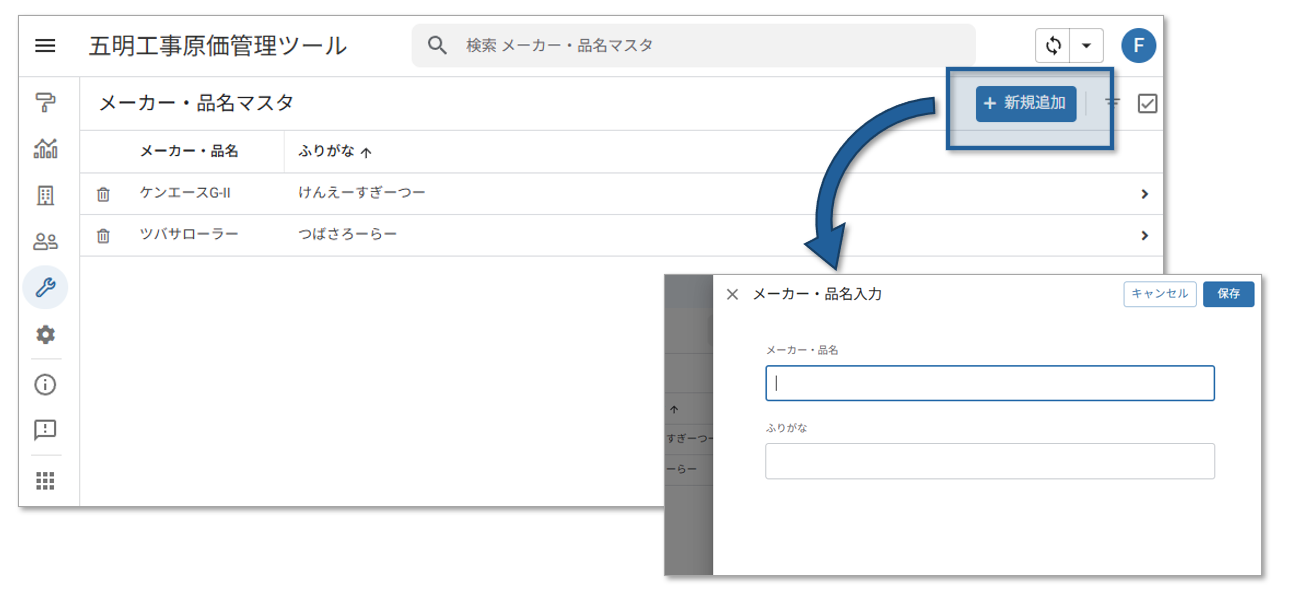
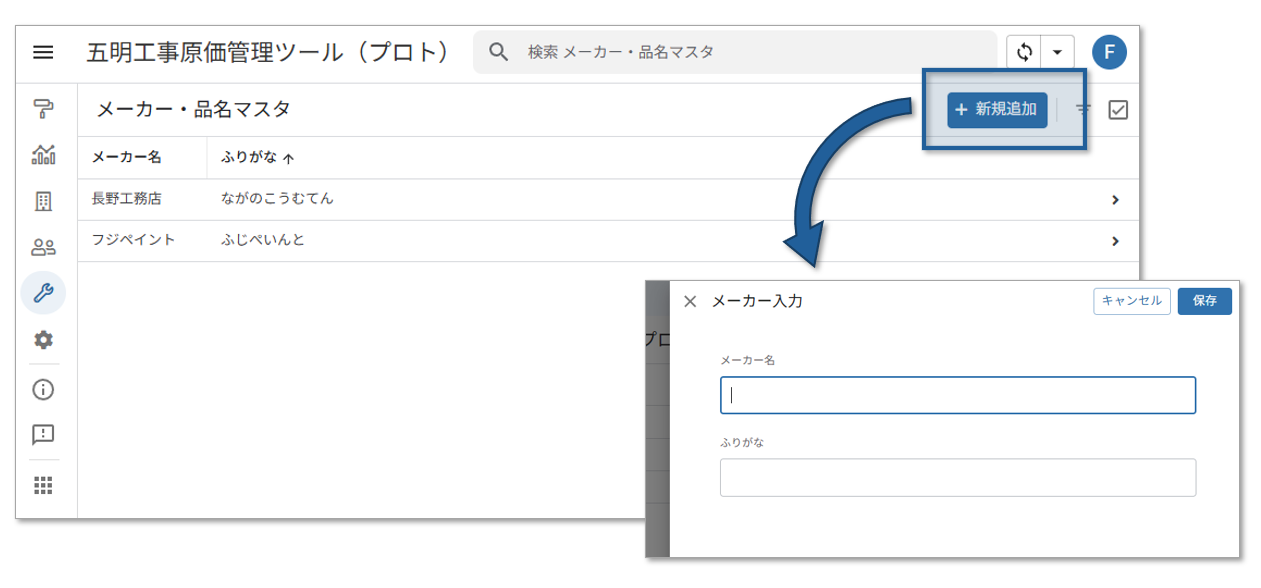
Review Feedback

Changed region(s): [[0.0, 0.0, 0.9897, 0.9796]]

diff --git a/docs/searchindex.js b/docs/searchindex.js
@@ -1,1 +1,1 @@
-Search.setIndex({"alltitles":{"1. \u4e8b\u524d\u6e96\u5099":[[0,null]],"1.1. \u767a\u6ce8\u8005\u30de\u30b9\u30bf":[[1,null]],"1.2. \u793e\u54e1\u30de\u30b9\u30bf":[[2,null]],"1.3. \u30e1\u30fc\u30ab\u30fc\u30fb\u54c1\u540d\u30de\u30b9\u30bf":[[3,null]],"2. \u5de5\u4e8b\u767b\u9332":[[4,null]],"2.1. \u57fa\u672c\u60c5\u5831\u767b\u9332":[[5,null]],"2.2. \u5951\u7d04\u5185\u5bb9\u5165\u529b":[[6,null]],"3. \u539f\u4fa1\u5165\u529b":[[7,null]],"3.1. \u6750\u6599\u30fb\u5916\u6ce8\u8cbb\u30fb\u8af8\u7d4c\u8cbb":[[8,null]],"3.2. \u52b4\u52d9\u8cbb":[[9,null]],"3.3. \u8af8\u7d4c\u8cbb\u30fb\u7ba1\u7406\u8cbb":[[10,null]],"4. \u8acb\u6c42\u30fb\u5165\u91d1":[[11,null]],"4.1. \u8acb\u6c42\u51e6\u7406":[[12,null]],"4.2. \u5165\u91d1\u51e6\u7406":[[13,null]],"5. \u96c6\u8a08\u30fb\u5206\u6790":[[14,null]],"5.1. \u767a\u6ce8\u8005\u5225\u5de5\u4e8b\u96c6\u8a08":[[15,null]],"5.2. \u5de5\u4e8b\u53f0\u5e33\u51fa\u529b":[[16,null]],"5.3. \u767a\u6ce8\u8005\u5225\u5de5\u4e8b\u96c6\u8a08\u51fa\u529b":[[17,null]],"\u4e94\u660e\u539f\u4fa1\u7ba1\u7406\u30c4\u30fc\u30eb \uff0d \u64cd\u4f5c\u30de\u30cb\u30e5\u30a2\u30eb":[[18,null]],"\u5165\u91d1\u60c5\u5831\u306e\u767b\u9332":[[13,"id1"]],"\u5229\u7528\u306e\u6d41\u308c":[[18,"id2"]],"\u52b4\u52d9\u8cbb\u306e\u524a\u9664":[[9,"id3"]],"\u52b4\u52d9\u8cbb\u306e\u767b\u9332":[[9,"id1"]],"\u52b4\u52d9\u8cbb\u306e\u7de8\u96c6":[[9,"id2"]],"\u5951\u7d04\u5185\u5bb9\u306e\u524a\u9664":[[6,"id3"]],"\u5951\u7d04\u5185\u5bb9\u306e\u767b\u9332":[[6,"id1"]],"\u5951\u7d04\u5185\u5bb9\u306e\u7de8\u96c6":[[6,"id2"]],"\u5de5\u4e8b\u306e\u524a\u9664":[[5,"id4"]],"\u5de5\u4e8b\u306e\u767b\u9332":[[5,"id2"]],"\u5de5\u4e8b\u306e\u7de8\u96c6":[[5,"id3"]],"\u5e33\u7968\u306e\u51fa\u529b":[[16,"id1"],[17,"id1"]],"\u64cd\u4f5c\u8aac\u660e":[[18,"id3"]],"\u6750\u6599\u30fb\u5916\u6ce8\u8cbb\u30fb\u8af8\u7d4c\u8cbb\u306e\u524a\u9664":[[8,"id3"]],"\u6750\u6599\u30fb\u5916\u6ce8\u8cbb\u30fb\u8af8\u7d4c\u8cbb\u306e\u767b\u9332":[[8,"id1"]],"\u6750\u6599\u30fb\u5916\u6ce8\u8cbb\u30fb\u8af8\u7d4c\u8cbb\u306e\u7de8\u96c6":[[8,"id2"]],"\u6982\u8981":[[18,"id1"]],"\u767a\u6ce8\u8005\u306e\u524a\u9664":[[1,"id4"]],"\u767a\u6ce8\u8005\u306e\u767b\u9332":[[1,"id2"]],"\u767a\u6ce8\u8005\u306e\u7de8\u96c6":[[1,"id3"]],"\u793e\u54e1\u306e\u524a\u9664":[[2,"id4"],[3,"id4"]],"\u793e\u54e1\u306e\u767b\u9332":[[2,"id2"],[3,"id2"]],"\u793e\u54e1\u306e\u7de8\u96c6":[[2,"id3"],[3,"id3"]],"\u8acb\u6c42\u60c5\u5831\u306e\u524a\u9664":[[12,"id3"],[13,"id3"]],"\u8acb\u6c42\u60c5\u5831\u306e\u767b\u9332":[[12,"id1"]],"\u8acb\u6c42\u60c5\u5831\u306e\u7de8\u96c6":[[12,"id2"],[13,"id2"]],"\u8af8\u7d4c\u8cbb\u306e\u524a\u9664":[[10,"id3"]],"\u8af8\u7d4c\u8cbb\u306e\u767b\u9332":[[10,"id1"]],"\u8af8\u7d4c\u8cbb\u306e\u7de8\u96c6":[[10,"id2"]],"\u8d77\u52d5":[[1,"id1"],[2,"id1"],[3,"id1"],[5,"id1"],[15,"id1"]],"\u96c6\u8a08\u671f\u9593\u306e\u6307\u5b9a":[[15,"id2"]]},"docnames":["P100","P101","P102","P103","P200","P201","P202","P300","P301","P302","P303","P400","P401","P402","P500","P501","P502","P503","index"],"envversion":{"sphinx":66,"sphinx.domains.c":3,"sphinx.domains.changeset":1,"sphinx.domains.citation":1,"sphinx.domains.cpp":9,"sphinx.domains.index":1,"sphinx.domains.javascript":3,"sphinx.domains.math":2,"sphinx.domains.python":4,"sphinx.domains.rst":2,"sphinx.domains.std":2},"filenames":["P100.rst","P101.rst","P102.rst","P103.rst","P200.rst","P201.rst","P202.rst","P300.rst","P301.rst","P302.rst","P303.rst","P400.rst","P401.rst","P402.rst","P500.rst","P501.rst","P502.rst","P503.rst","index.rst"],"indexentries":{},"objects":{},"objnames":{},"objtypes":{},"terms":{"\u3001\u300c":[1,2,3,5,6,8,9,10,12,13,15,16,17],"\u3001\u6708":18,"\u3001\u6708\u6b21":15,"\u300c\u30b4\u30df":[1,2,3],"\u3042\u3089\u304b\u3058\u3081":[0,2,3,18],"\u3042\u308a":[1,9],"\u3042\u308b":[1,2,3,5,6],"\u3044\u308b":[1,2,3,6,8,9,10,12,13],"\u304a\u304f":[2,3],"\u304a\u3051\u308b":[4,17,18],"\u304a\u3088\u3073":[3,6,9,11,12,13,18],"\u304a\u308a":[5,18],"\u304b\u3089":[1,2,3,5,8,9,15,16,17],"\u304f\u3060":[1,2,3,5,6,8,9,10,12,13,15,16,17],"\u3053\u3068":[2,3,8,9,10,14,15,16,18],"\u3053\u308c":[7,18],"\u3053\u308c\u3089":[8,9,10,12,13,18],"\u3054\u3068":[4,6,7,8,15,17,18],"\u3055\u3044":[1,2,3,5,6,8,9,10,12,13,15,16,17],"\u3059\u3067":1,"\u3059\u308b":[1,2,3,4,5,6,8,9,10,12,13,14,15,16,17,18],"\u305f\u3081":[0,4,18],"\u3060\u3055\u3044":[1,5],"\u3065\u304b":10,"\u3067\u304d":[3,5,7,8,9,10,14,15,16,17,18],"\u3067\u304d\u308b":3,"\u3067\u3054":5,"\u3067\u3059":[3,4,5,8,9,15,16,17,18],"\u3067\u3082":[7,18],"\u3068\u3057\u3066":[5,8,9,10,12,13,14,16,17,18],"\u306a\u3044":[8,9,10],"\u306a\u304a":1,"\u306a\u3069":[0,5,6,7,8,9,10,12,13,15,16,17,18],"\u306a\u308a":[2,6,9],"\u306a\u308b":[1,5,15],"\u306b\u3064\u3044\u3066":18,"\u306b\u3088\u308a":[7,15,16,17,18],"\u306e\u3067":[1,2,3,5,6,8,9,10,12,13],"\u307e\u3059":[0,1,2,3,4,5,6,7,8,9,10,11,12,13,14,15,16,17,18],"\u307e\u305b":5,"\u307e\u305f":18,"\u307e\u3068\u3081\u3066":16,"\u3082\u306e":18,"\u308c\u308b":[1,2,3,16,17],"\u30a2\u30a4\u30b3\u30f3":[1,2,3,5,6,8,9,10,12,13,15],"\u30a8\u30ea\u30a2":[6,8,9,10,12,13],"\u30af\u30ea\u30c3\u30af":[1,2,3,5,6,8,9,10,12,13,15,16,17],"\u30b4\u30df":[6,8,9,10,12,13],"\u30b7\u30b9\u30c6\u30e0":18,"\u30c0\u30a4\u30a2\u30ed\u30b0":[1,2,3,5,6,8,9,10,12,13],"\u30c0\u30d6\u30eb\u30af\u30ea\u30c3\u30af":[16,17],"\u30c4\u30fc\u30eb":[0,1,2,3,4,5,6,7,8,9,10,11,12,13,14,15,16,17],"\u30c7\u30fc\u30bf":[1,2,3,5,6,8,9,10,12,13,14,18],"\u30d5\u30a9\u30fc\u30e0":[1,2,3,5,6,8,9,10,12,13],"\u30dc\u30bf\u30f3":[1,2,3,5,6,8,9,10,12,13,15,16,17],"\u30de\u30b9\u30bf":[0,8,9,18],"\u30de\u30cb\u30e5\u30a2\u30eb":[0,1,2,3,4,5,6,7,8,9,10,11,12,13,14,15,16,17],"\u30e1\u30fc\u30ab\u30fc":[8,18],"\u30fb\u56db\u534a\u671f":15,"\u30fb\u5916\u6ce8\u8cbb":18,"\u30fb\u7ba1\u7406\u8cbb":18,"\u30fb\u8af8":18,"\u4e00\u5143":18,"\u4e00\u89a7":[1,2,3,5,16,17],"\u4e0a\u90e8":[6,8,9,10,12,13,16,17],"\u4e8b\u4e00\u89a7":15,"\u4e8b\u4e00\u89a7\u8a73\u7d30":17,"\u4e8b\u524d":[8,9,18],"\u4e8b\u96c6":18,"\u4e8b\u9805":[1,2,3,5],"\u4e94\u660e\u539f\u4fa1":[0,1,2,3,4,5,6,7,8,9,10,11,12,13,14,15,16,17],"\u4ee5\u4e0b":18,"\u4efb\u610f":15,"\u4f01\u696d":1,"\u4f5c\u6210":[4,18],"\u4f5c\u696d":9,"\u4f7f\u7528":[1,2,5,6,12,13],"\u4fa1\u683c":17,"\u4fdd\u5b58":[1,2,3,5,6,8,9,10,12,13,15],"\u4fdd\u5b58\u5f8c":15,"\u4fee\u6b63":[1,2,3,5,6,8,9,10,12,13],"\u500b\u5225":16,"\u5148\u5225":[15,17],"\u5148\u982d":[1,2,3,6,8,9,10,12,13],"\u5165\u529b":[0,1,2,3,5,8,9,10,12,13,18],"\u5165\u91d1":[4,5,6,16,18],"\u5171\u901a":10,"\u5185\u5bb9":[1,2,3,4,5,8,9,10,12,13,16,17,18],"\u518d\u8868":15,"\u51e6\u7406":18,"\u51fa\u529b":[5,18],"\u51fa\u767a":5,"\u5206\u6790":[15,18],"\u5224\u65ad":[14,15,17,18],"\u5225\u5de5":18,"\u5225\u96c6":18,"\u5229\u76ca":[7,15,17,18],"\u529b\u6642":[2,3],"\u52b4\u52d9":[2,9],"\u52b4\u52d9\u8cbb":[7,10,18],"\u52b9\u7387":[0,2,3,18],"\u5358\u4f4d":[4,5,10,15,16,18],"\u5358\u4fa1":[8,9],"\u5373\u3057":9,"\u539f\u4fa1":[0,1,4,5,6,8,9,10,15,16,17,18],"\u53c2\u7167":[16,17],"\u53cd\u6620":[8,9,10],"\u53ce\u652f":[16,18],"\u53ce\u76ca":[5,10,14,15,17,18],"\u53d6\u5f15":[15,17],"\u53d7\u6ce8":[1,15,17],"\u53ef\u80fd":[1,2,3,8,9,16],"\u53ef\u8996":[11,15,18],"\u53f0\u5e33":[4,18],"\u53f3\u4e0a":[1,2,3,5],"\u5404\u5de5":[5,18],"\u5408\u8a08":[6,9,10,12,13,17],"\u5411\u4e0a":18,"\u542b\u3081":10,"\u54c1\u540d":[8,18],"\u54c1\u76ee":[0,3,18],"\u56de\u53ce":[11,18],"\u56f3\u308b":[0,18],"\u57fa\u3065\u3044":15,"\u57fa\u672c":[4,18],"\u57fa\u6e96":6,"\u57fa\u790e":[0,5,18],"\u5831\u544a":16,"\u5834\u5408":[6,8,9],"\u5834\u6240":5,"\u58f2\u4e0a":[1,11,12,15,16,17,18],"\u5916\u6ce8":[7,18],"\u5951\u7d04":[4,5,12,15,16,18],"\u5b8c\u4e86":[16,17],"\u5b9a\u91cf":16,"\u5b9f\u614b":9,"\u5b9f\u884c":[7,8,18],"\u5bfe\u5fdc":18,"\u5bfe\u8c61":15,"\u5de5\u4e8b":[1,2,6,7,8,9,10,12,13,14,15,18],"\u5de5\u4e8b\u540d":5,"\u5de5\u671f":5,"\u5de6\u30e1\u30cb\u30e5\u30fc":[1,2,3,5,15],"\u5e33\u7968":[5,18],"\u5e74\u5ea6":15,"\u5f53\u8a72":5,"\u5f62\u5f0f":[16,17],"\u5f71\u97ff":1,"\u5f93\u4e8b":2,"\u5fa9\u5143":5,"\u5fc5\u8981":[1,2,3,5],"\u60c5\u5831":[0,1,2,3,4,6,8,9,10,11,16,18],"\u6226\u7565":17,"\u628a\u63e1":[7,10,12,14,15,16,17,18],"\u6307\u5b9a":17,"\u63a1\u7b97":16,"\u640d\u76ca":[1,6,8,9,10,15,16,17,18],"\u64cd\u4f5c":[0,1,2,3,4,5,6,7,8,9,10,11,12,13,14,15,16,17],"\u652f\u6255":8,"\u652f\u63f4":18,"\u6570\u91cf":8,"\u6574\u7406":[16,17],"\u65b0\u898f":[1,2,3,5],"\u65b9\u6cd5":18,"\u65b9\u91dd":[15,17],"\u65e5\u6570":9,"\u660e\u7d30":6,"\u6642\u7d66":9,"\u6700\u5f8c":[14,18],"\u6700\u7d42":10,"\u671f\u9593":17,"\u672a\u53ce":[11,13,18],"\u672a\u8acb":12,"\u672c\u30c4\u30fc\u30eb":18,"\u672c\u60c5\u5831":6,"\u672c\u66f8":18,"\u672c\u6a5f\u80fd":[15,16,17],"\u6750\u6599":[3,18],"\u6750\u6599\u8cbb":[7,8,18],"\u6848\u4ef6":[4,18],"\u691c\u8a0e":17,"\u69cb\u6210":9,"\u69cb\u9020":[14,15,18],"\u6a5f\u80fd":[15,16,17],"\u6b21\u7ba1":18,"\u6b63\u78ba":[0,2,9,18],"\u6b6f\u8eca":15,"\u6b8b\u9ad8":13,"\u6bd4\u7387":10,"\u6bd4\u8f03":[6,12],"\u6c0f\u540d":9,"\u6c42\u6b8b":12,"\u6ce8\u610f\u304f":[1,5],"\u6d3b\u7528":[14,15,16,17,18],"\u6e08\u307f":[1,2,3,5],"\u6e96\u5099":18,"\u72b6\u6cc1":[7,10,11,15,16,17,18],"\u73fe\u5834":8,"\u751f\u6210":[16,17],"\u753b\u9762":[1,2,3,5,6,8,9,10,12,13,15,16,17],"\u767a\u6ce8":[0,5,14,18],"\u767a\u751f":8,"\u767b\u9332":[0,11,18],"\u76f4\u63a5":[3,8,9,10],"\u78ba\u8a8d":[1,2,3,5,6,7,8,9,10,12,13,16,17,18],"\u793e\u5185":16,"\u793e\u54e1":[0,9,10,18],"\u793e\u5916":[9,10],"\u7a2e\u5225":8,"\u7ba1\u7406":[0,1,2,3,4,5,6,7,8,9,10,11,12,13,14,15,16,17],"\u7cbe\u5ea6":18,"\u7d10\u3065\u3051":[4,18],"\u7d4c\u55b6":[14,15,17,18],"\u7d4c\u8cbb":[7,10,18],"\u7d50\u679c":[15,17],"\u81ea\u52d5":[8,9,10,18],"\u84c4\u7a4d":[14,18],"\u8868\u793a":[1,2,3,5,6,8,9,10,12,13,15,16,17],"\u8907\u6570":6,"\u8981\u7d20":9,"\u898b\u76f4\u3057":15,"\u898b\u8fbc\u307f":[7,18],"\u8a08\u4e0a":[11,18],"\u8a08\u51fa":18,"\u8a08\u7b97":[0,6,8,9,10,18],"\u8a08\u8868":18,"\u8a2d\u5b9a":15,"\u8a73\u7d30":[5,6,8,9,10,12,13,16],"\u8acb\u6c42":[4,5,16,18],"\u8acb\u8ca0":[6,10,18],"\u8af8\u7d4c":8,"\u8af8\u7d4c\u8cbb":18,"\u8ca2\u732e":17,"\u8cbb\u5165":[2,3,9],"\u8cbb\u7528":10,"\u8cbb\u7528\u540d":10,"\u8cbb\u7b49":[8,10],"\u8cbb\u96c6":2,"\u8cc7\u6599":[14,16,18],"\u8cc7\u91d1":[11,18],"\u9032\u884c":[7,18],"\u904b\u7528":18,"\u9078\u629e":[1,2,3,8,9],"\u91cd\u8981":9,"\u91d1\u984d":[6,8,9,12,13,18],"\u958b\u304d":[1,2,3,5,6,8,9,10,12,13],"\u958b\u304f":[1,2,3],"\u95a2\u9023":1,"\u96c6\u8a08":[1,8,9,10,12,13,17,18]},"titles":["1. \u4e8b\u524d\u6e96\u5099","1.1. \u767a\u6ce8\u8005\u30de\u30b9\u30bf","1.2. \u793e\u54e1\u30de\u30b9\u30bf","1.3. \u30e1\u30fc\u30ab\u30fc\u30fb\u54c1\u540d\u30de\u30b9\u30bf","2. \u5de5\u4e8b\u767b\u9332","2.1. \u57fa\u672c\u60c5\u5831\u767b\u9332","2.2. \u5951\u7d04\u5185\u5bb9\u5165\u529b","3. \u539f\u4fa1\u5165\u529b","3.1. \u6750\u6599\u30fb\u5916\u6ce8\u8cbb\u30fb\u8af8\u7d4c\u8cbb","3.2. \u52b4\u52d9\u8cbb","3.3. \u8af8\u7d4c\u8cbb\u30fb\u7ba1\u7406\u8cbb","4. \u8acb\u6c42\u30fb\u5165\u91d1","4.1. \u8acb\u6c42\u51e6\u7406","4.2. \u5165\u91d1\u51e6\u7406","5. \u96c6\u8a08\u30fb\u5206\u6790","5.1. \u767a\u6ce8\u8005\u5225\u5de5\u4e8b\u96c6\u8a08","5.2. \u5de5\u4e8b\u53f0\u5e33\u51fa\u529b","5.3. \u767a\u6ce8\u8005\u5225\u5de5\u4e8b\u96c6\u8a08\u51fa\u529b","\u4e94\u660e\u539f\u4fa1\u7ba1\u7406\u30c4\u30fc\u30eb \uff0d \u64cd\u4f5c\u30de\u30cb\u30e5\u30a2\u30eb"],"titleterms":{"\u30c4\u30fc\u30eb":18,"\u30de\u30b9\u30bf":[1,2,3],"\u30de\u30cb\u30e5\u30a2\u30eb":18,"\u30e1\u30fc\u30ab\u30fc":3,"\u30fb\u7ba1\u7406\u8cbb":10,"\u30fb\u8af8":8,"\u4e8b\u524d":0,"\u4e8b\u96c6":[15,17],"\u4e94\u660e\u539f\u4fa1":18,"\u5165\u529b":[6,7],"\u5165\u91d1":[11,13],"\u5185\u5bb9":6,"\u51e6\u7406":[12,13],"\u51fa\u529b":[16,17],"\u5206\u6790":14,"\u5225\u5de5":[15,17],"\u5229\u7528":18,"\u524a\u9664":[1,2,3,5,6,8,9,10,12,13],"\u52b4\u52d9\u8cbb":9,"\u539f\u4fa1":7,"\u53f0\u5e33":16,"\u54c1\u540d":3,"\u57fa\u672c":5,"\u5916\u6ce8":8,"\u5951\u7d04":6,"\u5de5\u4e8b":[4,5,16],"\u5e33\u7968":[16,17],"\u60c5\u5831":[5,12,13],"\u6307\u5b9a":15,"\u64cd\u4f5c":18,"\u671f\u9593":15,"\u6750\u6599":8,"\u6982\u8981":18,"\u6d41\u308c":18,"\u6e96\u5099":0,"\u767a\u6ce8":[1,15,17],"\u767b\u9332":[1,2,3,4,5,6,8,9,10,12,13],"\u793e\u54e1":[2,3],"\u7ba1\u7406":18,"\u7d4c\u8cbb":8,"\u7de8\u96c6":[1,2,3,5,6,8,9,10,12,13],"\u8a08\u51fa":17,"\u8aac\u660e":18,"\u8acb\u6c42":[11,12,13],"\u8af8\u7d4c\u8cbb":10,"\u8d77\u52d5":[1,2,3,5,15],"\u96c6\u8a08":[14,15]}})
+Search.setIndex({"alltitles":{"1. \u4e8b\u524d\u6e96\u5099":[[0,null]],"1.1. \u767a\u6ce8\u8005\u30de\u30b9\u30bf":[[1,null]],"1.2. \u793e\u54e1\u30de\u30b9\u30bf":[[2,null]],"1.3. \u30e1\u30fc\u30ab\u30fc\u30fb\u54c1\u540d\u30de\u30b9\u30bf":[[3,null]],"2. \u5de5\u4e8b\u767b\u9332":[[4,null]],"2.1. \u57fa\u672c\u60c5\u5831\u767b\u9332":[[5,null]],"2.2. \u5951\u7d04\u5185\u5bb9\u5165\u529b":[[6,null]],"3. \u539f\u4fa1\u5165\u529b":[[7,null]],"3.1. \u6750\u6599\u30fb\u5916\u6ce8\u8cbb\u30fb\u8af8\u7d4c\u8cbb":[[8,null]],"3.2. \u52b4\u52d9\u8cbb":[[9,null]],"3.3. \u8af8\u7d4c\u8cbb\u30fb\u7ba1\u7406\u8cbb":[[10,null]],"4. \u8acb\u6c42\u30fb\u5165\u91d1":[[11,null]],"4.1. \u8acb\u6c42\u51e6\u7406":[[12,null]],"4.2. \u5165\u91d1\u51e6\u7406":[[13,null]],"5. \u96c6\u8a08\u30fb\u5206\u6790":[[14,null]],"5.1. \u767a\u6ce8\u8005\u5225\u5de5\u4e8b\u96c6\u8a08":[[15,null]],"5.2. \u5de5\u4e8b\u53f0\u5e33\u51fa\u529b":[[16,null]],"5.3. \u767a\u6ce8\u8005\u5225\u5de5\u4e8b\u96c6\u8a08\u51fa\u529b":[[17,null]],"\u30e1\u30fc\u30ab\u30fc\u306e\u524a\u9664":[[3,"id5"]],"\u30e1\u30fc\u30ab\u30fc\u306e\u767b\u9332":[[3,"id2"]],"\u30e1\u30fc\u30ab\u30fc\u306e\u7de8\u96c6":[[3,"id4"]],"\u30e1\u30fc\u30ab\u30fc\u30fb\u54c1\u76ee\u306e\u7167\u4f1a":[[3,"id3"]],"\u4e94\u660e\u539f\u4fa1\u7ba1\u7406\u30c4\u30fc\u30eb \uff0d \u64cd\u4f5c\u30de\u30cb\u30e5\u30a2\u30eb":[[18,null]],"\u5165\u91d1\u60c5\u5831\u306e\u767b\u9332":[[13,"id1"]],"\u5229\u7528\u306e\u6d41\u308c":[[18,"id2"]],"\u52b4\u52d9\u8cbb\u306e\u524a\u9664":[[9,"id3"]],"\u52b4\u52d9\u8cbb\u306e\u767b\u9332":[[9,"id1"]],"\u52b4\u52d9\u8cbb\u306e\u7de8\u96c6":[[9,"id2"]],"\u54c1\u76ee\u306e\u524a\u9664":[[3,"id8"]],"\u54c1\u76ee\u306e\u767b\u9332":[[3,"id6"]],"\u54c1\u76ee\u306e\u7de8\u96c6":[[3,"id7"]],"\u5951\u7d04\u5185\u5bb9\u306e\u524a\u9664":[[6,"id3"]],"\u5951\u7d04\u5185\u5bb9\u306e\u767b\u9332":[[6,"id1"]],"\u5951\u7d04\u5185\u5bb9\u306e\u7de8\u96c6":[[6,"id2"]],"\u5de5\u4e8b\u306e\u524a\u9664":[[5,"id4"]],"\u5de5\u4e8b\u306e\u767b\u9332":[[5,"id2"]],"\u5de5\u4e8b\u306e\u7de8\u96c6":[[5,"id3"]],"\u5e33\u7968\u306e\u51fa\u529b":[[16,"id1"],[17,"id1"]],"\u64cd\u4f5c\u8aac\u660e":[[18,"id3"]],"\u6750\u6599\u30fb\u5916\u6ce8\u8cbb\u30fb\u8af8\u7d4c\u8cbb\u306e\u524a\u9664":[[8,"id3"]],"\u6750\u6599\u30fb\u5916\u6ce8\u8cbb\u30fb\u8af8\u7d4c\u8cbb\u306e\u767b\u9332":[[8,"id1"]],"\u6750\u6599\u30fb\u5916\u6ce8\u8cbb\u30fb\u8af8\u7d4c\u8cbb\u306e\u7de8\u96c6":[[8,"id2"]],"\u6982\u8981":[[18,"id1"]],"\u767a\u6ce8\u8005\u306e\u524a\u9664":[[1,"id4"]],"\u767a\u6ce8\u8005\u306e\u767b\u9332":[[1,"id2"]],"\u767a\u6ce8\u8005\u306e\u7de8\u96c6":[[1,"id3"]],"\u793e\u54e1\u306e\u524a\u9664":[[2,"id4"]],"\u793e\u54e1\u306e\u767b\u9332":[[2,"id2"]],"\u793e\u54e1\u306e\u7de8\u96c6":[[2,"id3"]],"\u8acb\u6c42\u60c5\u5831\u306e\u524a\u9664":[[12,"id3"],[13,"id3"]],"\u8acb\u6c42\u60c5\u5831\u306e\u767b\u9332":[[12,"id1"]],"\u8acb\u6c42\u60c5\u5831\u306e\u7de8\u96c6":[[12,"id2"],[13,"id2"]],"\u8af8\u7d4c\u8cbb\u306e\u524a\u9664":[[10,"id3"]],"\u8af8\u7d4c\u8cbb\u306e\u767b\u9332":[[10,"id1"]],"\u8af8\u7d4c\u8cbb\u306e\u7de8\u96c6":[[10,"id2"]],"\u8d77\u52d5":[[1,"id1"],[2,"id1"],[3,"id1"],[5,"id1"],[15,"id1"]],"\u96c6\u8a08\u671f\u9593\u306e\u6307\u5b9a":[[15,"id2"]]},"docnames":["P100","P101","P102","P103","P200","P201","P202","P300","P301","P302","P303","P400","P401","P402","P500","P501","P502","P503","index"],"envversion":{"sphinx":66,"sphinx.domains.c":3,"sphinx.domains.changeset":1,"sphinx.domains.citation":1,"sphinx.domains.cpp":9,"sphinx.domains.index":1,"sphinx.domains.javascript":3,"sphinx.domains.math":2,"sphinx.domains.python":4,"sphinx.domains.rst":2,"sphinx.domains.std":2},"filenames":["P100.rst","P101.rst","P102.rst","P103.rst","P200.rst","P201.rst","P202.rst","P300.rst","P301.rst","P302.rst","P303.rst","P400.rst","P401.rst","P402.rst","P500.rst","P501.rst","P502.rst","P503.rst","index.rst"],"indexentries":{},"objects":{},"objnames":{},"objtypes":{},"terms":{"\u3001\u300c":[1,2,3,5,6,8,9,10,12,13,15,16,17],"\u3001\u6708":18,"\u3001\u6708\u6b21":15,"\u300c\u30b4\u30df":[1,2],"\u3042\u3089\u304b\u3058\u3081":[0,2,3,18],"\u3042\u308a":[1,9],"\u3042\u308b":[1,2,3,5,6],"\u3044\u3044\u3048":15,"\u3044\u308b":[1,2,3,6,8,9,10,12,13],"\u304a\u304f":[2,3],"\u304a\u3051\u308b":[4,17,18],"\u304a\u3088\u3073":[3,6,9,11,12,13,15,18],"\u304a\u308a":[5,18],"\u304b\u3089":[1,2,3,5,8,9,15,16,17],"\u304f\u3060":[1,2,3,5,6,8,9,10,12,13,15,16,17],"\u3053\u3068":[2,3,8,9,10,14,15,16,18],"\u3053\u308c":[7,18],"\u3053\u308c\u3089":[8,9,10,12,13,18],"\u3054\u3068":[4,6,7,8,15,17,18],"\u3055\u3044":[1,2,3,5,6,8,9,10,12,13,15,16,17],"\u3059\u3067":1,"\u3059\u308b":[1,2,3,4,5,6,8,9,10,12,13,14,15,16,17,18],"\u305f\u3081":[0,4,18],"\u3060\u3055\u3044":[1,5],"\u3065\u304b":10,"\u3067\u304d":[3,5,7,8,9,10,14,15,16,17,18],"\u3067\u304d\u308b":3,"\u3067\u3054":5,"\u3067\u3059":[3,4,5,8,9,15,16,17,18],"\u3067\u3082":[7,18],"\u3068\u3057\u3066":[5,8,9,10,12,13,14,16,17,18],"\u306a\u3044":[8,9,10],"\u306a\u304a":1,"\u306a\u3069":[0,5,6,7,8,9,10,12,13,15,16,17,18],"\u306a\u308a":[2,6,9],"\u306a\u308b":[1,5,15],"\u306b\u3064\u3044\u3066":18,"\u306b\u3088\u308a":[7,15,16,17,18],"\u306e\u3067":[1,2,3,5,6,8,9,10,12,13],"\u306f\u3044":15,"\u307e\u3059":[0,1,2,3,4,5,6,7,8,9,10,11,12,13,14,15,16,17,18],"\u307e\u305b":5,"\u307e\u305f":[15,18],"\u307e\u3068\u3081\u3066":16,"\u3082\u306e":18,"\u308c\u308b":[1,2,3,16,17],"\u30a2\u30a4\u30b3\u30f3":[1,2,3,5,6,8,9,10,12,13,15],"\u30a8\u30ea\u30a2":[6,8,9,10,12,13],"\u30af\u30ea\u30c3\u30af":[1,2,3,5,6,8,9,10,12,13,15,16,17],"\u30b4\u30df":[3,6,8,9,10,12,13],"\u30b7\u30b9\u30c6\u30e0":18,"\u30c0\u30a4\u30a2\u30ed\u30b0":[1,2,3,5,6,8,9,10,12,13],"\u30c0\u30d6\u30eb\u30af\u30ea\u30c3\u30af":[16,17],"\u30c4\u30fc\u30eb":[0,1,2,3,4,5,6,7,8,9,10,11,12,13,14,15,16,17],"\u30c7\u30fc\u30bf":[1,2,3,5,6,8,9,10,12,13,14,18],"\u30d5\u30a9\u30fc\u30e0":[1,2,3,5,6,8,9,10,12,13],"\u30dc\u30bf\u30f3":[1,2,3,5,6,8,9,10,12,13,15,16,17],"\u30de\u30b9\u30bf":[0,8,9,18],"\u30de\u30cb\u30e5\u30a2\u30eb":[0,1,2,3,4,5,6,7,8,9,10,11,12,13,14,15,16,17],"\u30e1\u30fc\u30ab\u30fc":[8,18],"\u30fb\u56db\u534a\u671f":15,"\u30fb\u5916\u6ce8\u8cbb":18,"\u30fb\u7ba1\u7406\u8cbb":18,"\u30fb\u8af8":18,"\u4e00\u5143":18,"\u4e00\u89a7":[1,2,3,5,16,17],"\u4e0a\u90e8":[3,6,8,9,10,12,13,16,17],"\u4e8b\u4e00\u89a7":15,"\u4e8b\u4e00\u89a7\u8a73\u7d30":17,"\u4e8b\u524d":[8,9,18],"\u4e8b\u96c6":18,"\u4e8b\u9805":[1,2,3,5],"\u4e94\u660e\u539f\u4fa1":[0,1,2,3,4,5,6,7,8,9,10,11,12,13,14,15,16,17],"\u4ee5\u4e0b":18,"\u4efb\u610f":15,"\u4f01\u696d":1,"\u4f5c\u6210":[4,18],"\u4f5c\u696d":9,"\u4f7f\u7528":[1,2,5,6,12,13],"\u4fa1\u683c":17,"\u4fdd\u5b58":[1,2,3,5,6,8,9,10,12,13,15],"\u4fdd\u5b58\u5f8c":15,"\u4fee\u6b63":[1,2,3,5,6,8,9,10,12,13],"\u500b\u5225":16,"\u5148\u5225":[15,17],"\u5148\u982d":[1,2,3,6,8,9,10,12,13],"\u5165\u529b":[0,1,2,3,5,8,9,10,12,13,18],"\u5165\u91d1":[4,5,6,16,18],"\u5171\u901a":10,"\u5185\u5bb9":[1,2,3,4,5,8,9,10,12,13,16,17,18],"\u518d\u8868":15,"\u51e6\u7406":18,"\u51fa\u529b":[5,18],"\u51fa\u767a":5,"\u5206\u6790":[15,18],"\u5224\u65ad":[14,15,17,18],"\u5225\u5de5":18,"\u5225\u96c6":18,"\u5229\u76ca":[7,15,17,18],"\u529b\u6642":[2,3],"\u52b4\u52d9":[2,9],"\u52b4\u52d9\u8cbb":[7,10,18],"\u52b9\u7387":[0,2,3,18],"\u5358\u4f4d":[4,5,10,15,16,18],"\u5358\u4fa1":[8,9],"\u5373\u3057":9,"\u539f\u4fa1":[0,1,4,5,6,8,9,10,15,16,17,18],"\u53c2\u7167":[16,17],"\u53cd\u6620":[8,9,10],"\u53ce\u652f":[16,18],"\u53ce\u76ca":[5,10,14,15,17,18],"\u53d6\u5f15":[15,17],"\u53d7\u6ce8":[1,15,17],"\u53ef\u80fd":[1,2,3,8,9,16],"\u53ef\u8996":[11,15,18],"\u53f0\u5e33":[4,18],"\u53f3\u4e0a":[1,2,3,5],"\u5404\u5de5":[5,18],"\u5408\u8a08":[6,9,10,12,13,17],"\u5411\u4e0a":18,"\u542b\u3081":10,"\u542b\u3081\u308b":15,"\u54c1\u540d":[8,18],"\u54c1\u76ee":[0,18],"\u56de\u53ce":[11,18],"\u56f3\u308b":[0,18],"\u57fa\u3065\u3044":15,"\u57fa\u672c":[4,18],"\u57fa\u6e96":6,"\u57fa\u790e":[0,5,18],"\u5831\u544a":16,"\u5834\u5408":[6,8,9],"\u5834\u6240":5,"\u58f2\u4e0a":[1,11,12,15,16,17,18],"\u5916\u6ce8":[7,18],"\u5951\u7d04":[4,5,12,15,16,18],"\u5b8c\u4e86":[15,16,17],"\u5b9a\u91cf":16,"\u5b9f\u614b":9,"\u5b9f\u884c":[7,8,18],"\u5bfe\u5fdc":18,"\u5bfe\u8c61":15,"\u5de5\u4e8b":[1,2,6,7,8,9,10,12,13,14,15,18],"\u5de5\u4e8b\u540d":5,"\u5de5\u671f":5,"\u5de6\u30e1\u30cb\u30e5\u30fc":[1,2,3,5,15],"\u5e33\u7968":[5,18],"\u5e74\u5ea6":15,"\u5f53\u8a72":5,"\u5f62\u5f0f":[16,17],"\u5f71\u97ff":1,"\u5f93\u4e8b":2,"\u5fa9\u5143":5,"\u5fc5\u8981":[1,2,3,5],"\u60c5\u5831":[0,1,2,3,4,6,8,9,10,11,16,18],"\u6226\u7565":17,"\u628a\u63e1":[7,10,12,14,15,16,17,18],"\u6307\u5b9a":17,"\u63a1\u7b97":16,"\u640d\u76ca":[1,6,8,9,10,15,16,17,18],"\u64cd\u4f5c":[0,1,2,3,4,5,6,7,8,9,10,11,12,13,14,15,16,17],"\u652f\u6255":8,"\u652f\u63f4":18,"\u6570\u91cf":8,"\u6574\u7406":[16,17],"\u65b0\u898f":[1,2,3,5],"\u65b9\u6cd5":18,"\u65b9\u91dd":[15,17],"\u65e5\u6570":9,"\u660e\u7d30":6,"\u6642\u7d66":9,"\u6700\u5f8c":[14,18],"\u6700\u7d42":10,"\u671f\u9593":17,"\u672a\u53ce":[11,13,18],"\u672a\u8acb":12,"\u672c\u30c4\u30fc\u30eb":18,"\u672c\u60c5\u5831":6,"\u672c\u66f8":18,"\u672c\u6a5f\u80fd":[15,16,17],"\u6750\u6599":[3,18],"\u6750\u6599\u8cbb":[7,8,18],"\u6761\u4ef6":15,"\u6848\u4ef6":[4,18],"\u691c\u8a0e":17,"\u69cb\u6210":9,"\u69cb\u9020":[14,15,18],"\u6a5f\u80fd":[15,16,17],"\u6b21\u7ba1":18,"\u6b63\u78ba":[0,2,9,18],"\u6b6f\u8eca":15,"\u6b8b\u9ad8":13,"\u6bd4\u7387":10,"\u6bd4\u8f03":[6,12],"\u6c0f\u540d":9,"\u6c42\u6b8b":12,"\u6ce8\u610f\u304f":[1,5],"\u6d3b\u7528":[14,15,16,17,18],"\u6e08\u307f":[1,2,3,5],"\u6e96\u5099":18,"\u72b6\u6cc1":[7,10,11,15,16,17,18],"\u73fe\u5834":8,"\u751f\u6210":[16,17],"\u753b\u9762":[1,2,3,5,6,8,9,10,12,13,15,16,17],"\u767a\u6ce8":[0,5,14,18],"\u767a\u751f":8,"\u767b\u9332":[0,11,18],"\u76f4\u63a5":[3,8,9,10],"\u78ba\u8a8d":[1,2,3,5,6,7,8,9,10,12,13,16,17,18],"\u793e\u5185":16,"\u793e\u54e1":[0,9,10,18],"\u793e\u5916":[9,10],"\u7a2e\u5225":8,"\u7ba1\u7406":[0,1,2,3,4,5,6,7,8,9,10,11,12,13,14,15,16,17],"\u7bc4\u56f2":15,"\u7cbe\u5ea6":18,"\u7d10\u3065\u3051":[4,18],"\u7d4c\u55b6":[14,15,17,18],"\u7d4c\u8cbb":[7,10,18],"\u7d50\u679c":[15,17],"\u81ea\u52d5":[8,9,10,18],"\u84c4\u7a4d":[14,18],"\u8868\u793a":[1,2,3,5,6,8,9,10,12,13,15,16,17],"\u8907\u6570":6,"\u8981\u7d20":9,"\u898b\u76f4\u3057":15,"\u898b\u8fbc\u307f":[7,18],"\u8a08\u4e0a":[11,18],"\u8a08\u51fa":18,"\u8a08\u7b97":[0,6,8,9,10,18],"\u8a08\u8868":18,"\u8a2d\u5b9a":15,"\u8a2d\u5b9a\u5f8c":15,"\u8a73\u7d30":[3,5,6,8,9,10,12,13,16],"\u8acb\u6c42":[4,5,16,18],"\u8acb\u8ca0":[6,10,18],"\u8af8\u7d4c":8,"\u8af8\u7d4c\u8cbb":18,"\u8ca2\u732e":17,"\u8cbb\u5165":[2,3,9],"\u8cbb\u7528":10,"\u8cbb\u7528\u540d":10,"\u8cbb\u7b49":[8,10],"\u8cbb\u96c6":2,"\u8cc7\u6599":[14,16,18],"\u8cc7\u91d1":[11,18],"\u9032\u884c":[7,15,18],"\u904b\u7528":18,"\u9078\u629e":[1,2,3,8,9,15],"\u91cd\u8981":9,"\u91d1\u984d":[6,8,9,12,13,18],"\u958b\u304d":[1,2,3,5,6,8,9,10,12,13],"\u958b\u304f":[1,2,3],"\u95a2\u9023":1,"\u96c6\u8a08":[1,8,9,10,12,13,17,18]},"titles":["1. \u4e8b\u524d\u6e96\u5099","1.1. \u767a\u6ce8\u8005\u30de\u30b9\u30bf","1.2. \u793e\u54e1\u30de\u30b9\u30bf","1.3. \u30e1\u30fc\u30ab\u30fc\u30fb\u54c1\u540d\u30de\u30b9\u30bf","2. \u5de5\u4e8b\u767b\u9332","2.1. \u57fa\u672c\u60c5\u5831\u767b\u9332","2.2. \u5951\u7d04\u5185\u5bb9\u5165\u529b","3. \u539f\u4fa1\u5165\u529b","3.1. \u6750\u6599\u30fb\u5916\u6ce8\u8cbb\u30fb\u8af8\u7d4c\u8cbb","3.2. \u52b4\u52d9\u8cbb","3.3. \u8af8\u7d4c\u8cbb\u30fb\u7ba1\u7406\u8cbb","4. \u8acb\u6c42\u30fb\u5165\u91d1","4.1. \u8acb\u6c42\u51e6\u7406","4.2. \u5165\u91d1\u51e6\u7406","5. \u96c6\u8a08\u30fb\u5206\u6790","5.1. \u767a\u6ce8\u8005\u5225\u5de5\u4e8b\u96c6\u8a08","5.2. \u5de5\u4e8b\u53f0\u5e33\u51fa\u529b","5.3. \u767a\u6ce8\u8005\u5225\u5de5\u4e8b\u96c6\u8a08\u51fa\u529b","\u4e94\u660e\u539f\u4fa1\u7ba1\u7406\u30c4\u30fc\u30eb \uff0d \u64cd\u4f5c\u30de\u30cb\u30e5\u30a2\u30eb"],"titleterms":{"\u30c4\u30fc\u30eb":18,"\u30de\u30b9\u30bf":[1,2,3],"\u30de\u30cb\u30e5\u30a2\u30eb":18,"\u30e1\u30fc\u30ab\u30fc":3,"\u30fb\u7ba1\u7406\u8cbb":10,"\u30fb\u8af8":8,"\u4e8b\u524d":0,"\u4e8b\u96c6":[15,17],"\u4e94\u660e\u539f\u4fa1":18,"\u5165\u529b":[6,7],"\u5165\u91d1":[11,13],"\u5185\u5bb9":6,"\u51e6\u7406":[12,13],"\u51fa\u529b":[16,17],"\u5206\u6790":14,"\u5225\u5de5":[15,17],"\u5229\u7528":18,"\u524a\u9664":[1,2,3,5,6,8,9,10,12,13],"\u52b4\u52d9\u8cbb":9,"\u539f\u4fa1":7,"\u53f0\u5e33":16,"\u54c1\u540d":3,"\u54c1\u76ee":3,"\u57fa\u672c":5,"\u5916\u6ce8":8,"\u5951\u7d04":6,"\u5de5\u4e8b":[4,5,16],"\u5e33\u7968":[16,17],"\u60c5\u5831":[5,12,13],"\u6307\u5b9a":15,"\u64cd\u4f5c":18,"\u671f\u9593":15,"\u6750\u6599":8,"\u6982\u8981":18,"\u6d41\u308c":18,"\u6e96\u5099":0,"\u7167\u4f1a":3,"\u767a\u6ce8":[1,15,17],"\u767b\u9332":[1,2,3,4,5,6,8,9,10,12,13],"\u793e\u54e1":2,"\u7ba1\u7406":18,"\u7d4c\u8cbb":8,"\u7de8\u96c6":[1,2,3,5,6,8,9,10,12,13],"\u8a08\u51fa":17,"\u8aac\u660e":18,"\u8acb\u6c42":[11,12,13],"\u8af8\u7d4c\u8cbb":10,"\u8d77\u52d5":[1,2,3,5,15],"\u96c6\u8a08":[14,15]}})

diff --git a/docs/P103.html b/docs/P103.html
@@ -329,9 +329,13 @@ document.write(`
             <nav aria-label="Page">
                 <ul class="visible nav section-nav flex-column">
 <li class="toc-h2 nav-item toc-entry"><a class="reference internal nav-link" href="#id1">起動</a></li>
-<li class="toc-h2 nav-item toc-entry"><a class="reference internal nav-link" href="#id2">社員の登録</a></li>
-<li class="toc-h2 nav-item toc-entry"><a class="reference internal nav-link" href="#id3">社員の編集</a></li>
-<li class="toc-h2 nav-item toc-entry"><a class="reference internal nav-link" href="#id4">社員の削除</a></li>
+<li class="toc-h2 nav-item toc-entry"><a class="reference internal nav-link" href="#id2">メーカーの登録</a></li>
+<li class="toc-h2 nav-item toc-entry"><a class="reference internal nav-link" href="#id3">メーカー・品目の照会</a></li>
+<li class="toc-h2 nav-item toc-entry"><a class="reference internal nav-link" href="#id4">メーカーの編集</a></li>
+<li class="toc-h2 nav-item toc-entry"><a class="reference internal nav-link" href="#id5">メーカーの削除</a></li>
+<li class="toc-h2 nav-item toc-entry"><a class="reference internal nav-link" href="#id6">品目の登録</a></li>
+<li class="toc-h2 nav-item toc-entry"><a class="reference internal nav-link" href="#id7">品目の編集</a></li>
+<li class="toc-h2 nav-item toc-entry"><a class="reference internal nav-link" href="#id8">品目の削除</a></li>
 </ul>
             </nav>
         </div>
@@ -356,19 +360,44 @@ document.write(`
 </a>
 </section>
 <section id="id2">
-<h2>社員の登録<a class="headerlink" href="#id2" title="Link to this heading">#</a></h2>
+<h2>メーカーの登録<a class="headerlink" href="#id2" title="Link to this heading">#</a></h2>
 <p>メーカー・品名マスタ画面の右上にある「新規登録」ボタンをクリックしてください。登録フォームが開くので必要事項を入力して「保存」ボタンをクリックしてください。</p>
 <a class="reference internal image-reference" href="_images/109.png"><img alt="_images/109.png" src="_images/109.png" style="width: 700px;" />
 </a>
 </section>
 <section id="id3">
-<h2>社員の編集<a class="headerlink" href="#id3" title="Link to this heading">#</a></h2>
-<p>メーカー・品名マスタの行をクリックすると編集フォームが開きます。内容を修正後、「保存」ボタンをクリックしてください。</p>
+<h2>メーカー・品目の照会<a class="headerlink" href="#id3" title="Link to this heading">#</a></h2>
+<p>メーカー・品名マスタ画面で、メーカー名をクリックするとメーカー詳細画面が表示されます。メーカー詳細画面では、登録されている品目を確認することができます。</p>
+<a class="reference internal image-reference" href="_images/109-3.png"><img alt="_images/109-3.png" src="_images/109-3.png" style="width: 700px;" />
+</a>
 </section>
 <section id="id4">
-<h2>社員の削除<a class="headerlink" href="#id4" title="Link to this heading">#</a></h2>
-<p>メーカー・品名マスタの行の先頭に表示されている「ゴミ箱アイコン」をクリックしてください。確認ダイアログが表示されるので、「削除」をクリックすると、データが削除されます。</p>
-<a class="reference internal image-reference" href="_images/110.png"><img alt="_images/110.png" src="_images/110.png" style="width: 400px;" />
+<h2>メーカーの編集<a class="headerlink" href="#id4" title="Link to this heading">#</a></h2>
+<p>メーカー詳細画面の右上にある「編集」ボタンをクリックしてください。編集フォームが開きます。 内容を修正後、「保存」ボタンをクリックしてください。</p>
+<a class="reference internal image-reference" href="_images/109-2.png"><img alt="_images/109-2.png" src="_images/109-2.png" style="width: 700px;" />
+</a>
+</section>
+<section id="id5">
+<h2>メーカーの削除<a class="headerlink" href="#id5" title="Link to this heading">#</a></h2>
+<p>メーカー詳細画面の右上にある「削除」アイコンをクリックしてください。確認ダイアログが表示されるので、「削除」をクリックすると、データが削除されます。</p>
+<a class="reference internal image-reference" href="_images/110.png"><img alt="_images/110.png" src="_images/110.png" style="width: 700px;" />
+</a>
+</section>
+<section id="id6">
+<h2>品目の登録<a class="headerlink" href="#id6" title="Link to this heading">#</a></h2>
+<p>メーカー詳細画面上部の「品目登録」ボタンをクリックしてください。登録フォームが開きます。
+品名を入力し、「保存」ボタンをクリックしてください。</p>
+<a class="reference internal image-reference" href="_images/110-1.png"><img alt="_images/110-1.png" src="_images/110-1.png" style="width: 700px;" />
+</a>
+</section>
+<section id="id7">
+<h2>品目の編集<a class="headerlink" href="#id7" title="Link to this heading">#</a></h2>
+<p>品目内容の行をクリックすると編集フォームが開きます。内容を修正後、「保存」ボタンをクリックしてください。</p>
+</section>
+<section id="id8">
+<h2>品目の削除<a class="headerlink" href="#id8" title="Link to this heading">#</a></h2>
+<p>品目内容の行の先頭に表示されているゴミ箱アイコンをクリックしてください。確認ダイアログが表示されますので、「削除」をクリックするとデータが削除されます。</p>
+<a class="reference internal image-reference" href="_images/110-2.png"><img alt="_images/110-2.png" src="_images/110-2.png" style="width: 400px;" />
 </a>
 </section>
 </section>
@@ -419,9 +448,13 @@ document.write(`
   <nav class="bd-toc-nav page-toc">
     <ul class="visible nav section-nav flex-column">
 <li class="toc-h2 nav-item toc-entry"><a class="reference internal nav-link" href="#id1">起動</a></li>
-<li class="toc-h2 nav-item toc-entry"><a class="reference internal nav-link" href="#id2">社員の登録</a></li>
-<li class="toc-h2 nav-item toc-entry"><a class="reference internal nav-link" href="#id3">社員の編集</a></li>
-<li class="toc-h2 nav-item toc-entry"><a class="reference internal nav-link" href="#id4">社員の削除</a></li>
+<li class="toc-h2 nav-item toc-entry"><a class="reference internal nav-link" href="#id2">メーカーの登録</a></li>
+<li class="toc-h2 nav-item toc-entry"><a class="reference internal nav-link" href="#id3">メーカー・品目の照会</a></li>
+<li class="toc-h2 nav-item toc-entry"><a class="reference internal nav-link" href="#id4">メーカーの編集</a></li>
+<li class="toc-h2 nav-item toc-entry"><a class="reference internal nav-link" href="#id5">メーカーの削除</a></li>
+<li class="toc-h2 nav-item toc-entry"><a class="reference internal nav-link" href="#id6">品目の登録</a></li>
+<li class="toc-h2 nav-item toc-entry"><a class="reference internal nav-link" href="#id7">品目の編集</a></li>
+<li class="toc-h2 nav-item toc-entry"><a class="reference internal nav-link" href="#id8">品目の削除</a></li>
 </ul>
   </nav></div>
 

diff --git a/docs/P501.html b/docs/P501.html
@@ -359,10 +359,14 @@ document.write(`
 <section id="id2">
 <h2>集計期間の指定<a class="headerlink" href="#id2" title="Link to this heading">#</a></h2>
 <div class="line-block">
-<div class="line">発注者別工事集計では、集計期間を指定することができます。</div>
-<div class="line">左メニューの歯車アイコンをクリックし、集計対象となる契約日の期間を設定してください。設定後、「保存」ボタンをクリックします。</div>
+<div class="line">発注者別工事集計では、集計期間および工事の進行状況を指定することができます。</div>
+<div class="line">左メニューの歯車アイコンをクリックし、集計対象となる契約日の期間を設定してください。</div>
+<div class="line">また、「完了した工事を含める」の「はい／いいえ」を選択することで、集計対象とする工事の範囲を指定できます。</div>
+<div class="line">設定後、「保存」ボタンをクリックします。</div>
+</div>
+<div class="line-block">
 <div class="line">期間を指定することで、月次・四半期・年度など任意の単位で収益状況を集計できます。</div>
-<div class="line">保存後、発注者別工事一覧画面を再表示すると、指定期間に基づいた集計結果が表示されます。</div>
+<div class="line">保存後、発注者別工事一覧画面を再表示すると、指定した条件に基づいた集計結果が表示されます。</div>
 </div>
 <a class="reference internal image-reference" href="_images/503.png"><img alt="_images/503.png" src="_images/503.png" style="width: 700px;" />
 </a>

diff --git a/docs/P101.html b/docs/P101.html
@@ -368,8 +368,7 @@ document.write(`
 <section id="id4">
 <h2>発注者の削除<a class="headerlink" href="#id4" title="Link to this heading">#</a></h2>
 <div class="line-block">
-<div class="line">発注者マスタの行の先頭に表示されている「ゴミ箱アイコン」をクリックしてください。確認ダイアログが表示されるので、「削除」をクリックすると、データが削除されます。</div>
-<div class="line">なお、すでに工事に使用されている発注者を削除すると、関連データに影響する可能性がありますのでご注意ください。</div>
+<div class="line">発注者マスタの行の先頭に表示されている「ゴミ箱アイコン」をクリックしてください。確認ダイアログが表示されるので、「削除」をクリックすると、データが削除されます。なお、すでに工事に使用されている発注者を削除すると、関連データに影響する可能性がありますのでご注意ください。</div>
 </div>
 <a class="reference internal image-reference" href="_images/104.png"><img alt="_images/104.png" src="_images/104.png" style="width: 400px;" />
 </a>

diff --git a/docs/P201.html b/docs/P201.html
@@ -374,7 +374,7 @@ document.write(`
 </section>
 <section id="id4">
 <h2>工事の削除<a class="headerlink" href="#id4" title="Link to this heading">#</a></h2>
-<p>工事一覧画面の右上にある「削除」アイコンをクリックしてください。確認ダイアログが表示されますので、「削除」をクリックするとデータが削除されます。削除した工事データは復元できませんのでご注意ください。</p>
+<p>工事詳細画面の右上にある「削除」アイコンをクリックしてください。確認ダイアログが表示されますので、「削除」をクリックするとデータが削除されます。削除した工事データは復元できませんのでご注意ください。</p>
 <a class="reference internal image-reference" href="_images/205.png"><img alt="_images/205.png" src="_images/205.png" style="width: 700px;" />
 </a>
 </section>

diff --git a/docs/_sources/P103.rst b/docs/_sources/P103.rst
@@ -17,7 +17,7 @@
    :width: 700px
 
 
-社員の登録
+メーカーの登録
 --------------------------------------------------------------------
 
 メーカー・品名マスタ画面の右上にある「新規登録」ボタンをクリックしてください。登録フォームが開くので必要事項を入力して「保存」ボタンをクリックしてください。
@@ -26,18 +26,59 @@
    :width: 700px
 
 
-社員の編集
+メーカー・品目の照会
 --------------------------------------------------------------------
 
-メーカー・品名マスタの行をクリックすると編集フォームが開きます。内容を修正後、「保存」ボタンをクリックしてください。
+メーカー・品名マスタ画面で、メーカー名をクリックするとメーカー詳細画面が表示されます。メーカー詳細画面では、登録されている品目を確認することができます。
+
+.. image:: _static/109-3.png
+   :width: 700px
 
 
-社員の削除
+
+メーカーの編集
 --------------------------------------------------------------------
 
+メーカー詳細画面の右上にある「編集」ボタンをクリックしてください。編集フォームが開きます。 内容を修正後、「保存」ボタンをクリックしてください。
 
-メーカー・品名マスタの行の先頭に表示されている「ゴミ箱アイコン」をクリックしてください。確認ダイアログが表示されるので、「削除」をクリックすると、データが削除されます。
+.. image:: _static/109-2.png
+   :width: 700px
+
+
+メーカーの削除
+--------------------------------------------------------------------
+メーカー詳細画面の右上にある「削除」アイコンをクリックしてください。確認ダイアログが表示されるので、「削除」をクリックすると、データが削除されます。
+
 
 .. image:: _static/110.png
+   :width: 700px
+
+
+品目の登録
+--------------------------------------------------------------------
+
+メーカー詳細画面上部の「品目登録」ボタンをクリックしてください。登録フォームが開きます。
+品名を入力し、「保存」ボタンをクリックしてください。
+
+
+.. image:: _static/110-1.png
+   :width: 700px
+
+
+
+品目の編集
+--------------------------------------------------------------------
+
+品目内容の行をクリックすると編集フォームが開きます。内容を修正後、「保存」ボタンをクリックしてください。
+
+
+品目の削除
+--------------------------------------------------------------------
+
+品目内容の行の先頭に表示されているゴミ箱アイコンをクリックしてください。確認ダイアログが表示されますので、「削除」をクリックするとデータが削除されます。
+
+.. image:: _static/110-2.png
    :width: 400px
+
+
 

diff --git a/source/P103.rst b/source/P103.rst
@@ -17,7 +17,7 @@
    :width: 700px
 
 
-社員の登録
+メーカーの登録
 --------------------------------------------------------------------
 
 メーカー・品名マスタ画面の右上にある「新規登録」ボタンをクリックしてください。登録フォームが開くので必要事項を入力して「保存」ボタンをクリックしてください。
@@ -26,18 +26,59 @@
    :width: 700px
 
 
-社員の編集
+メーカー・品目の照会
 --------------------------------------------------------------------
 
-メーカー・品名マスタの行をクリックすると編集フォームが開きます。内容を修正後、「保存」ボタンをクリックしてください。
+メーカー・品名マスタ画面で、メーカー名をクリックするとメーカー詳細画面が表示されます。メーカー詳細画面では、登録されている品目を確認することができます。
+
+.. image:: _static/109-3.png
+   :width: 700px
 
 
-社員の削除
+
+メーカーの編集
 --------------------------------------------------------------------
 
+メーカー詳細画面の右上にある「編集」ボタンをクリックしてください。編集フォームが開きます。 内容を修正後、「保存」ボタンをクリックしてください。
 
-メーカー・品名マスタの行の先頭に表示されている「ゴミ箱アイコン」をクリックしてください。確認ダイアログが表示されるので、「削除」をクリックすると、データが削除されます。
+.. image:: _static/109-2.png
+   :width: 700px
+
+
+メーカーの削除
+--------------------------------------------------------------------
+メーカー詳細画面の右上にある「削除」アイコンをクリックしてください。確認ダイアログが表示されるので、「削除」をクリックすると、データが削除されます。
+
 
 .. image:: _static/110.png
+   :width: 700px
+
+
+品目の登録
+--------------------------------------------------------------------
+
+メーカー詳細画面上部の「品目登録」ボタンをクリックしてください。登録フォームが開きます。
+品名を入力し、「保存」ボタンをクリックしてください。
+
+
+.. image:: _static/110-1.png
+   :width: 700px
+
+
+
+品目の編集
+--------------------------------------------------------------------
+
+品目内容の行をクリックすると編集フォームが開きます。内容を修正後、「保存」ボタンをクリックしてください。
+
+
+品目の削除
+--------------------------------------------------------------------
+
+品目内容の行の先頭に表示されているゴミ箱アイコンをクリックしてください。確認ダイアログが表示されますので、「削除」をクリックするとデータが削除されます。
+
+.. image:: _static/110-2.png
    :width: 400px
+
+
 

diff --git a/docs/_sources/P501.rst b/docs/_sources/P501.rst
@@ -20,10 +20,13 @@
 
 集計期間の指定
 --------------------------------------------------------------------
-| 発注者別工事集計では、集計期間を指定することができます。
-| 左メニューの歯車アイコンをクリックし、集計対象となる契約日の期間を設定してください。設定後、「保存」ボタンをクリックします。
+| 発注者別工事集計では、集計期間および工事の進行状況を指定することができます。
+| 左メニューの歯車アイコンをクリックし、集計対象となる契約日の期間を設定してください。
+| また、「完了した工事を含める」の「はい／いいえ」を選択することで、集計対象とする工事の範囲を指定できます。
+| 設定後、「保存」ボタンをクリックします。
+
 | 期間を指定することで、月次・四半期・年度など任意の単位で収益状況を集計できます。
-| 保存後、発注者別工事一覧画面を再表示すると、指定期間に基づいた集計結果が表示されます。
+| 保存後、発注者別工事一覧画面を再表示すると、指定した条件に基づいた集計結果が表示されます。
 
 .. image:: _static/503.png
    :width: 700px

diff --git a/source/P501.rst b/source/P501.rst
@@ -20,10 +20,13 @@
 
 集計期間の指定
 --------------------------------------------------------------------
-| 発注者別工事集計では、集計期間を指定することができます。
-| 左メニューの歯車アイコンをクリックし、集計対象となる契約日の期間を設定してください。設定後、「保存」ボタンをクリックします。
+| 発注者別工事集計では、集計期間および工事の進行状況を指定することができます。
+| 左メニューの歯車アイコンをクリックし、集計対象となる契約日の期間を設定してください。
+| また、「完了した工事を含める」の「はい／いいえ」を選択することで、集計対象とする工事の範囲を指定できます。
+| 設定後、「保存」ボタンをクリックします。
+
 | 期間を指定することで、月次・四半期・年度など任意の単位で収益状況を集計できます。
-| 保存後、発注者別工事一覧画面を再表示すると、指定期間に基づいた集計結果が表示されます。
+| 保存後、発注者別工事一覧画面を再表示すると、指定した条件に基づいた集計結果が表示されます。
 
 .. image:: _static/503.png
    :width: 700px

diff --git a/docs/_sources/P101.rst b/docs/_sources/P101.rst
@@ -36,8 +36,7 @@
 --------------------------------------------------------------------
 
 
-| 発注者マスタの行の先頭に表示されている「ゴミ箱アイコン」をクリックしてください。確認ダイアログが表示されるので、「削除」をクリックすると、データが削除されます。
-| なお、すでに工事に使用されている発注者を削除すると、関連データに影響する可能性がありますのでご注意ください。
+| 発注者マスタの行の先頭に表示されている「ゴミ箱アイコン」をクリックしてください。確認ダイアログが表示されるので、「削除」をクリックすると、データが削除されます。なお、すでに工事に使用されている発注者を削除すると、関連データに影響する可能性がありますのでご注意ください。
 
 .. image:: _static/104.png
    :width: 400px

diff --git a/source/P101.rst b/source/P101.rst
@@ -36,8 +36,7 @@
 --------------------------------------------------------------------
 
 
-| 発注者マスタの行の先頭に表示されている「ゴミ箱アイコン」をクリックしてください。確認ダイアログが表示されるので、「削除」をクリックすると、データが削除されます。
-| なお、すでに工事に使用されている発注者を削除すると、関連データに影響する可能性がありますのでご注意ください。
+| 発注者マスタの行の先頭に表示されている「ゴミ箱アイコン」をクリックしてください。確認ダイアログが表示されるので、「削除」をクリックすると、データが削除されます。なお、すでに工事に使用されている発注者を削除すると、関連データに影響する可能性がありますのでご注意ください。
 
 .. image:: _static/104.png
    :width: 400px

diff --git a/docs/_sources/P201.rst b/docs/_sources/P201.rst
@@ -37,7 +37,7 @@
 
 工事の削除
 --------------------------------------------------------------------
-工事一覧画面の右上にある「削除」アイコンをクリックしてください。確認ダイアログが表示されますので、「削除」をクリックするとデータが削除されます。削除した工事データは復元できませんのでご注意ください。
+工事詳細画面の右上にある「削除」アイコンをクリックしてください。確認ダイアログが表示されますので、「削除」をクリックするとデータが削除されます。削除した工事データは復元できませんのでご注意ください。
 
 .. image:: _static/205.png
    :width: 700px
